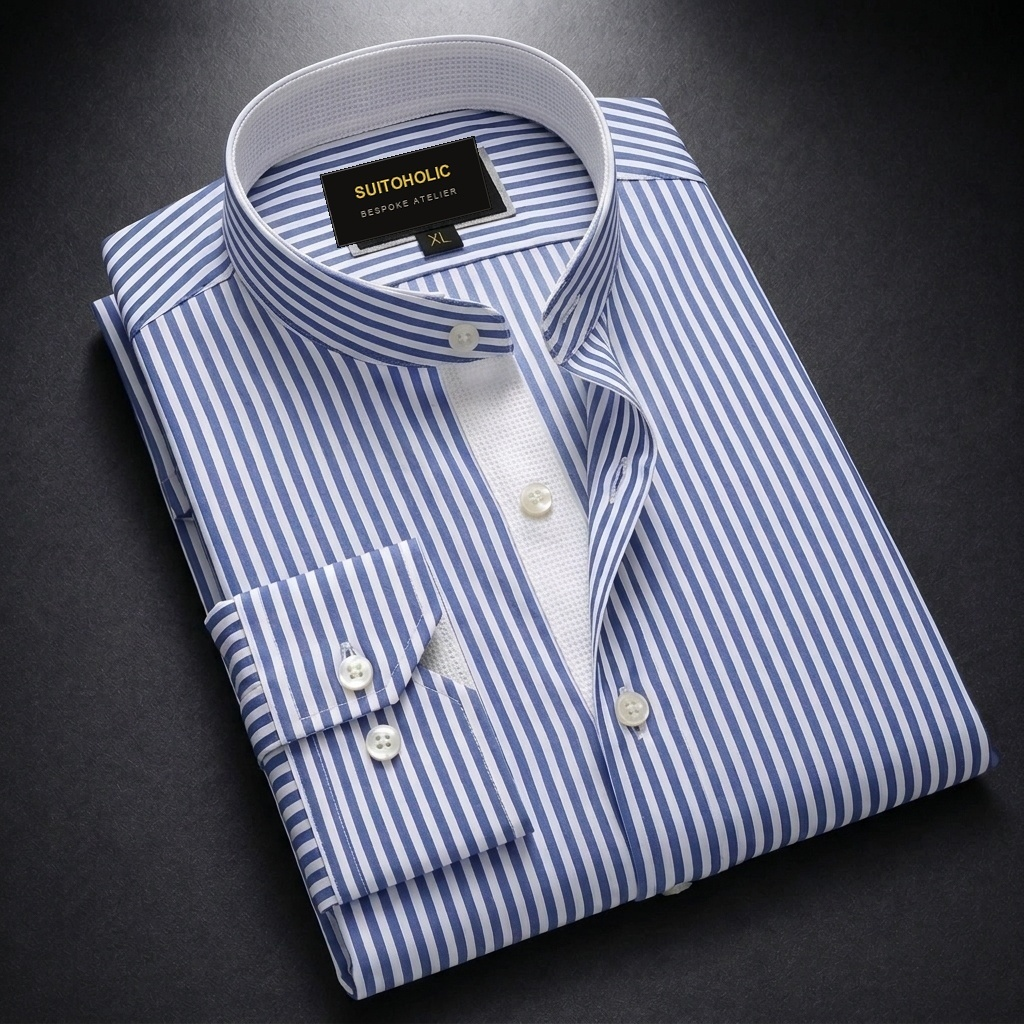
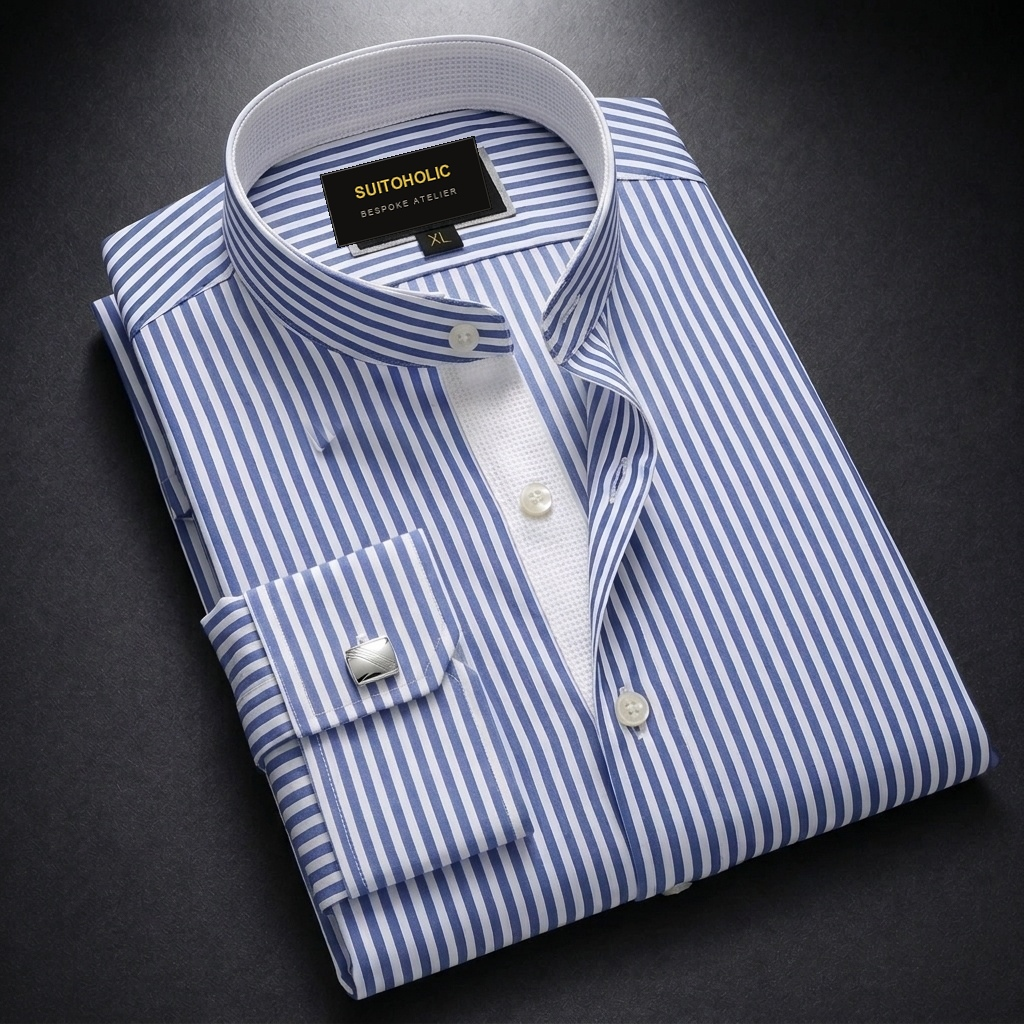
feat: add MannequinShirtViewer component and customizer assets for interactive 3D shirt visualization

Changed region(s): [[0.1875, 0.5, 0.5312, 0.9062], [0.2812, 0.4062, 0.4688, 0.4688]]

diff --git a/src/components/MannequinShirtViewer.tsx b/src/components/MannequinShirtViewer.tsx
@@ -254,11 +254,13 @@ export default function MannequinShirtViewer({
         <div className="relative w-full h-full min-h-[380px] sm:min-h-[440px] lg:min-h-[500px] flex flex-col justify-center items-center py-1 sm:py-2 animate-in fade-in duration-300">
           {/* Dual Image Presentation - Always 2-Column Side-by-Side Responsive */}
           <div className="w-full grid grid-cols-2 gap-2.5 sm:gap-4 items-stretch flex-1 max-h-[520px]">
-            {/* 1. Primary Folded Shirt Presentation (Collar View) */}
+            {/* 1. Primary Folded Shirt Presentation (Collar & Cuff View) */}
             <div className="relative rounded-2xl overflow-hidden bg-white border border-[#C68A4C]/45 shadow-xl flex flex-col group transition-all duration-300 hover:border-[#C68A4C] aspect-[4/5] sm:aspect-auto">
-              <div className="absolute top-2 left-2 z-10 flex items-center gap-1.5 bg-black/85 backdrop-blur-md text-white text-[8.5px] sm:text-[9.5px] font-bold tracking-wider uppercase px-2 py-0.5 rounded shadow-xs border border-white/10">
-                <span className="w-1.5 h-1.5 rounded-full bg-[#C68A4C]" />
-                <span>Collar • {collarStyle ? collarStyle.replace(/COLLAR|\/ BAND/gi, "").trim() : "Spread"}</span>
+              <div className="absolute top-2 left-2 z-10 flex items-center gap-1.5 bg-black/85 backdrop-blur-md text-white text-[8px] sm:text-[9.5px] font-bold tracking-wider uppercase px-2 py-0.5 rounded shadow-xs border border-white/10 max-w-[calc(100%-16px)]">
+                <span className="w-1.5 h-1.5 rounded-full bg-[#C68A4C] shrink-0" />
+                <span className="truncate">
+                  Collar • {collarStyle ? collarStyle.replace(/COLLAR|\/ BAND/gi, "").trim() : "Spread"} &nbsp;•&nbsp; Cuff • {cuffStyle ? cuffStyle.replace(/CUFF|DOUBLE/gi, "").trim() : "Classic"}
+                </span>
               </div>
               <div className="relative w-full h-full min-h-[220px] sm:min-h-[360px] lg:min-h-[440px] overflow-hidden bg-[#161311] flex items-center justify-center">
                 {/* eslint-disable-next-line @next/next/no-img-element */}
@@ -274,8 +276,10 @@ export default function MannequinShirtViewer({
                 />
               </div>
               <div className="absolute bottom-2 inset-x-2 z-10 bg-black/75 backdrop-blur-md border border-white/10 rounded-xl px-2.5 py-1.5 flex items-center justify-between text-[9px] sm:text-[10px] text-white">
-                <span className="font-semibold text-[#D0BDA9] uppercase tracking-wider">Folded Shirt</span>
-                <span className="font-extrabold text-[#C68A4C] uppercase tracking-wide truncate">{collarStyle || "Classic Spread"}</span>
+                <span className="font-semibold text-[#D0BDA9] uppercase tracking-wider shrink-0">Folded Shirt</span>
+                <span className="font-extrabold text-[#C68A4C] uppercase tracking-wide truncate ml-2">
+                  {collarStyle ? collarStyle.replace(/COLLAR|\/ BAND/gi, "").trim() : "Classic Spread"} • {cuffStyle ? cuffStyle.replace(/CUFF|DOUBLE/gi, "").trim() : "Classic Cuff"}
+                </span>
               </div>
             </div>
 
